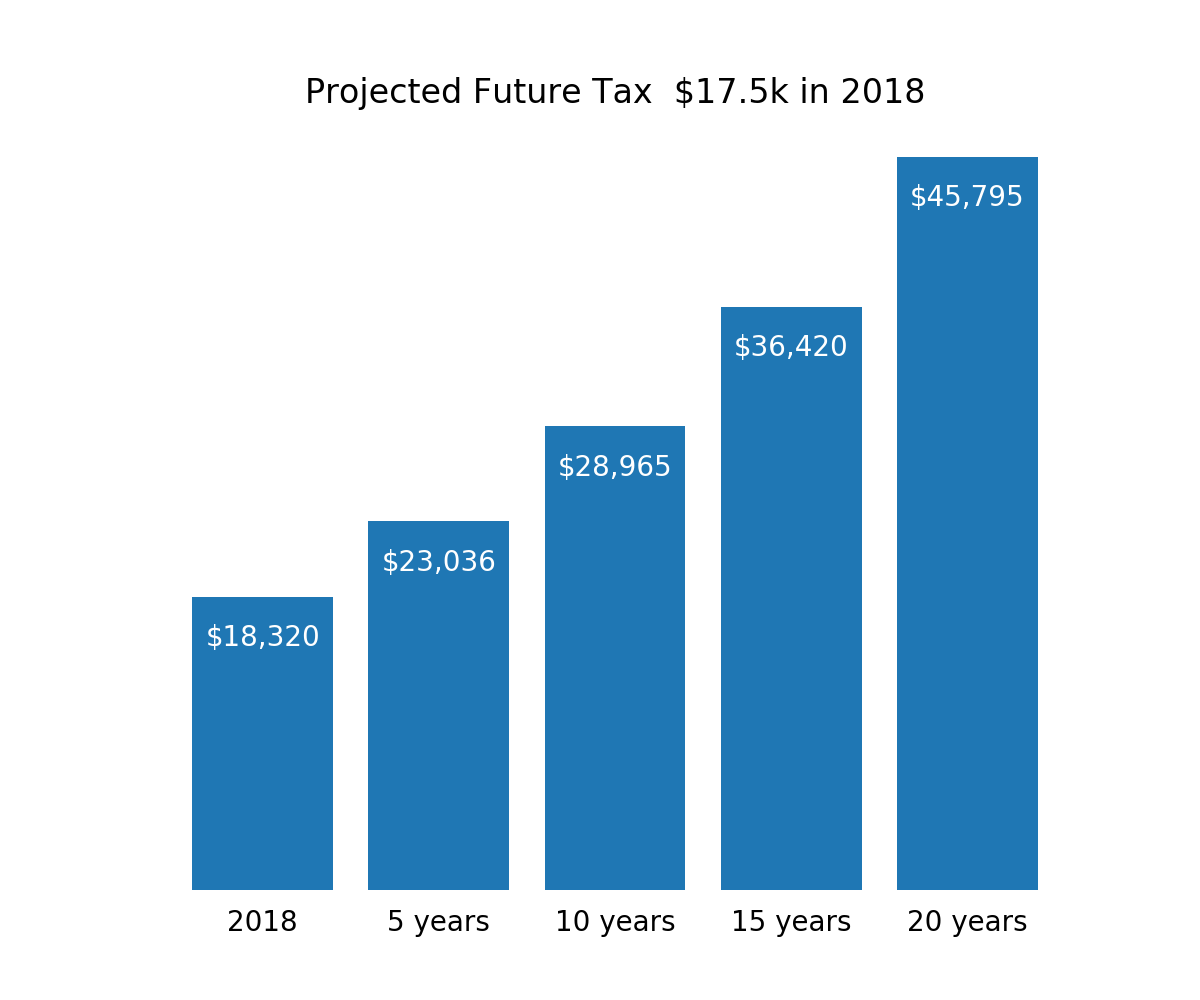
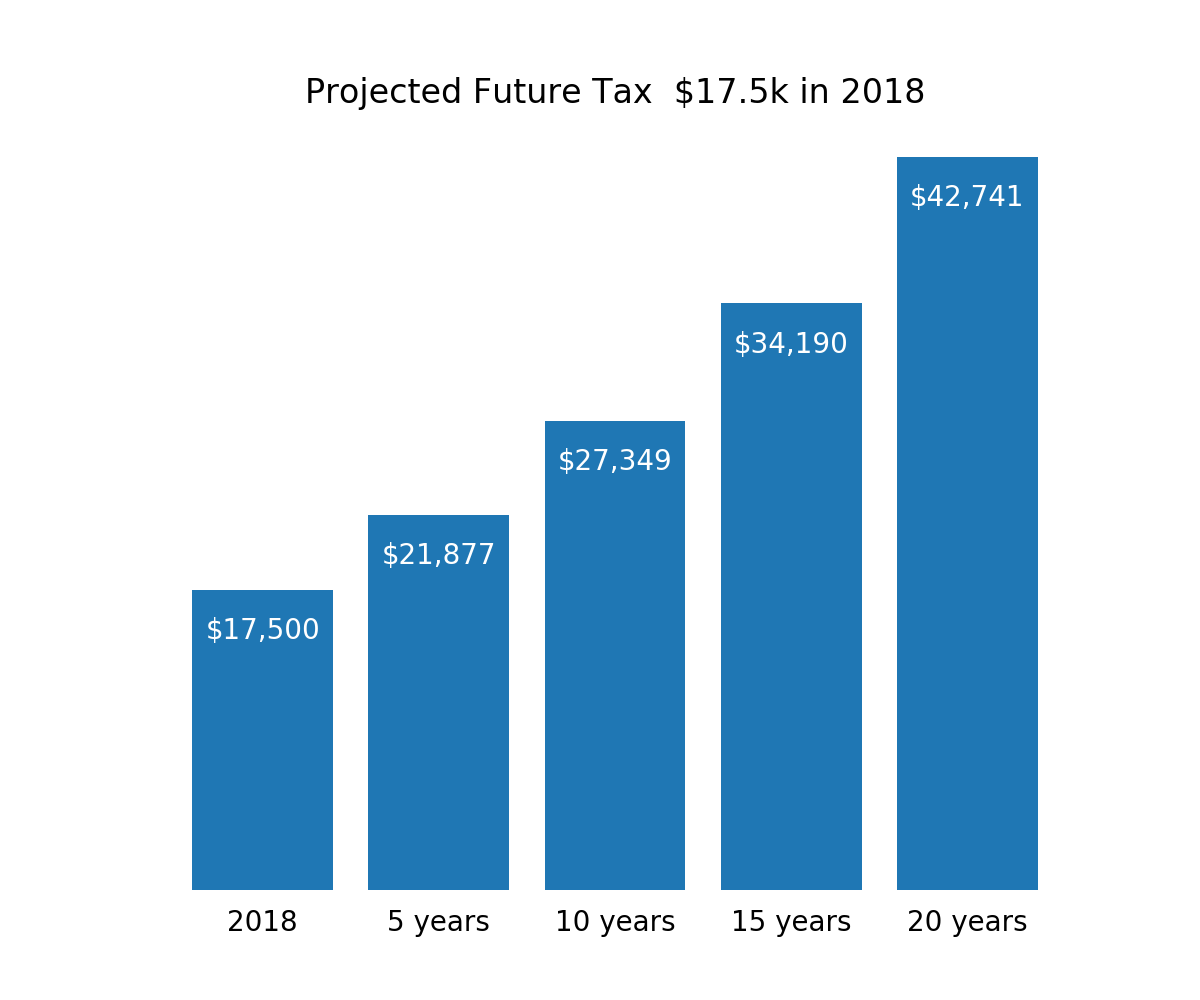
Fixes for projection using wrong file, delete bad files

diff --git a/scripts/personalprojectionchart.py b/scripts/personalprojectionchart.py
@@ -3,7 +3,7 @@ import numpy as np
 import matplotlib.pyplot as plt
 import common
 baseyear = common.getTaxYear()
-projection = pd.read_csv("projections.csv")
+projection = pd.read_csv(str(baseyear)+"/projections.csv")
 projection = projection.set_index(projection.Year)
 projection = projection[projection.index >= baseyear]
 
